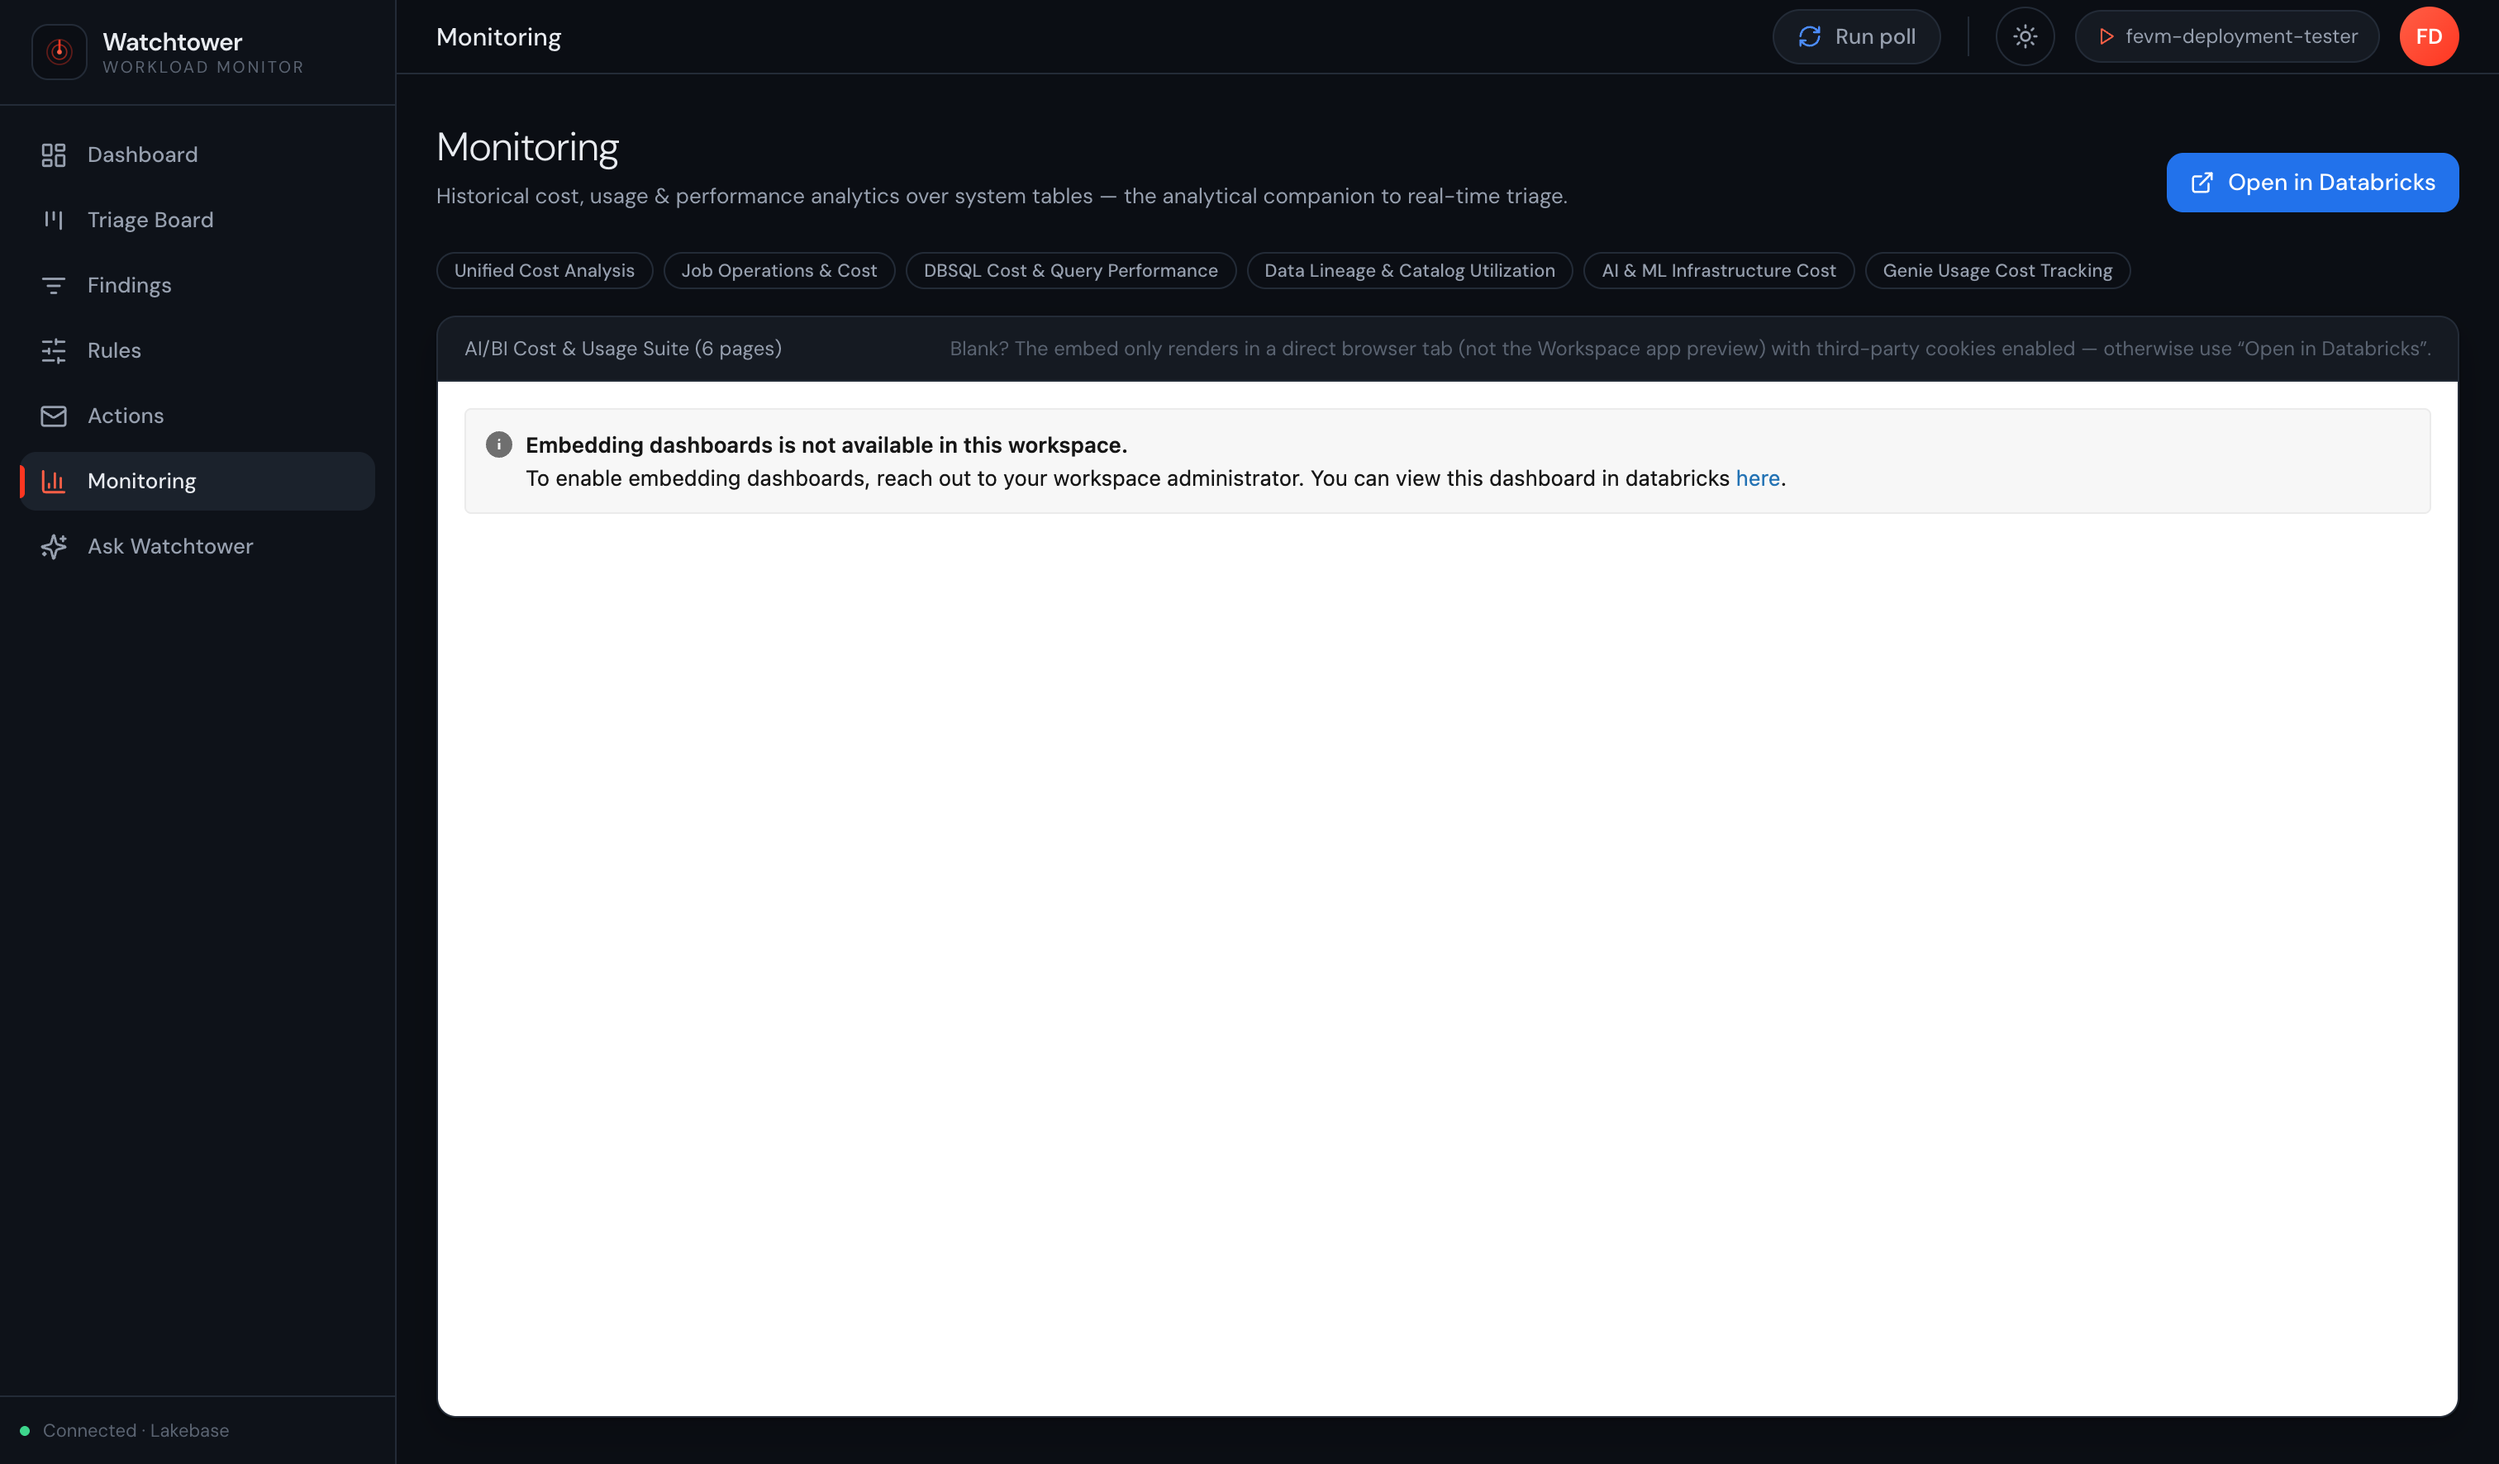
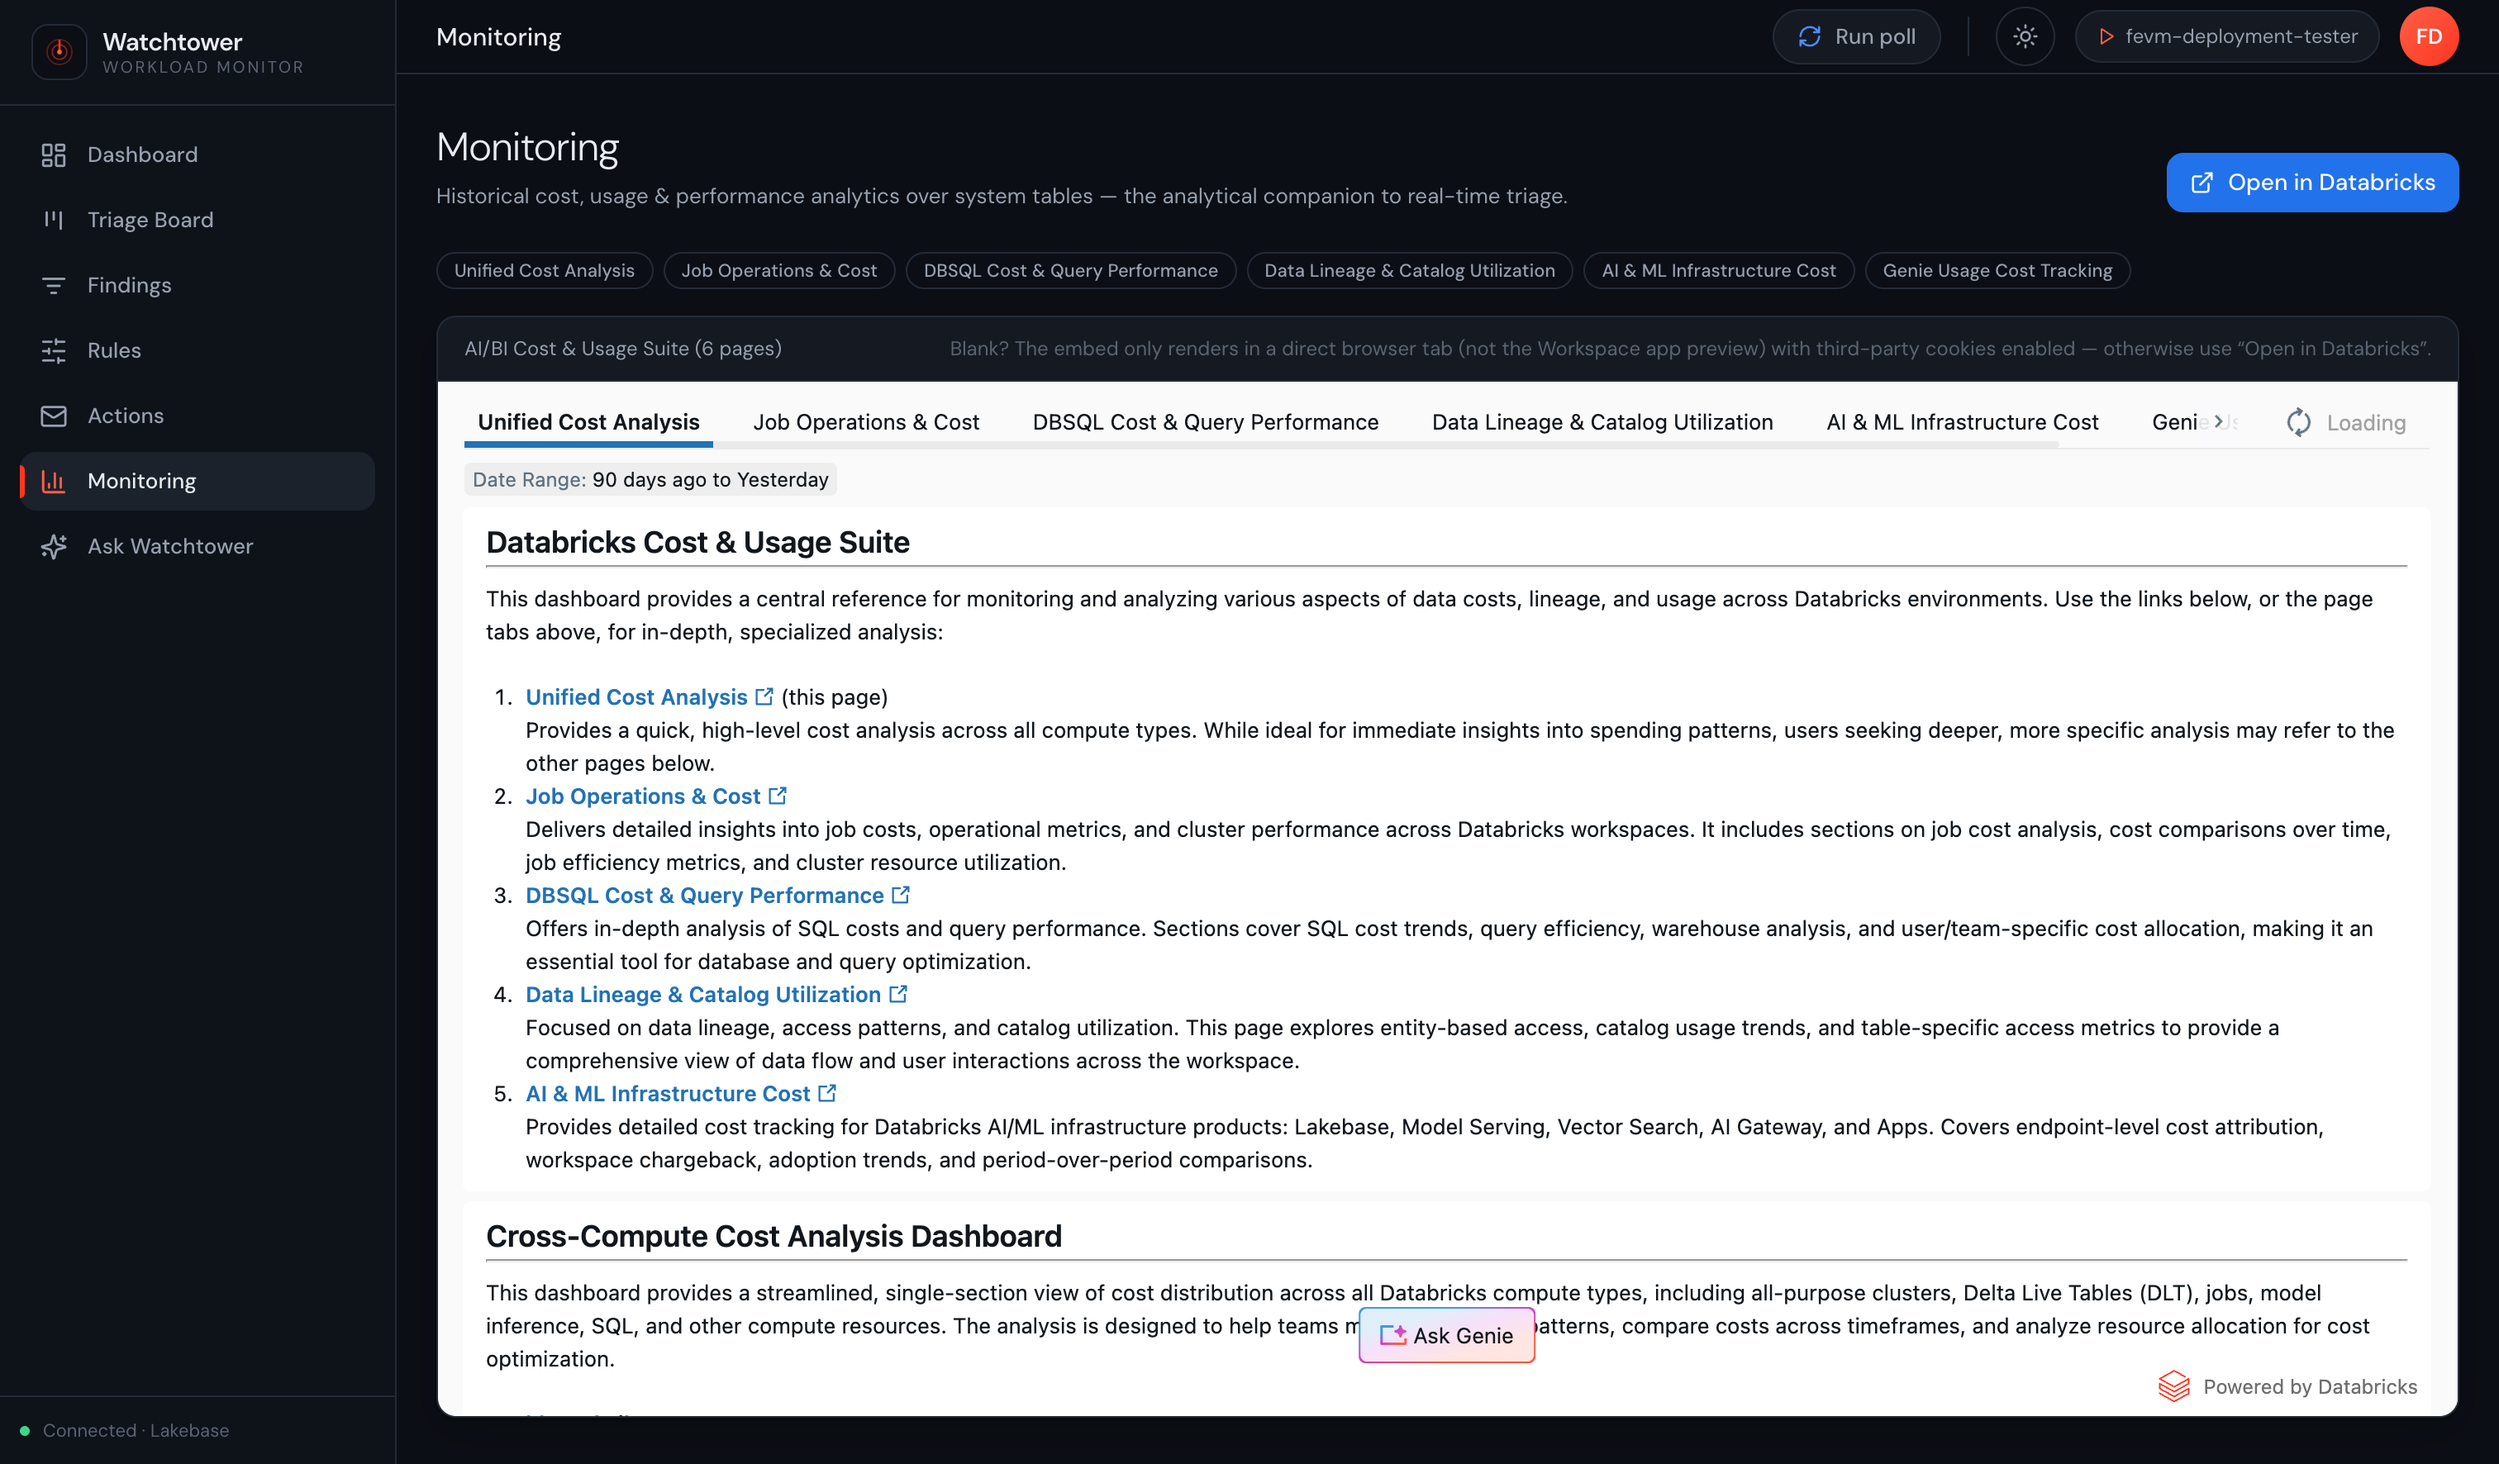
Add Monitoring embed screenshot + document enabling dashboard embedding
The workspace's AI/BI "Embed dashboards" setting was enabled, so the Monitoring
page now renders the embedded 6-page Cost & Usage Suite in-app (verified live).

- Add docs/screenshots/monitoring.png and feature Monitoring in the README gallery.
- README: add an "Enabling the Monitoring embed" setup subsection (Embed
  dashboards + Genie Agents settings, approved domains, third-party cookies).
- RUNBOOK 4b: note the Genie Agents setting for in-embed Ask Genie and that the
  embed was verified rendering after enablement.

diff --git a/workload_watchtower/README.md b/workload_watchtower/README.md
@@ -75,9 +75,11 @@ governance rule — all editable in-app.
 
 ![Findings](docs/screenshots/findings.png)
 
-> A **Monitoring** page also embeds the 6-page AI/BI Cost & Usage dashboard; the embed requires the
-> workspace's AI/BI dashboard-embedding policy to allow the app domain (see
-> [`docs/RUNBOOK.md`](docs/RUNBOOK.md) → *Enable the Monitoring dashboard embed*).
+**Monitoring** — embeds the 6-page AI/BI "Cost & Usage Suite" dashboard over system tables (with an
+in-dashboard **Ask Genie**) as the historical companion to real-time triage. Requires the workspace
+to allow dashboard embedding — see [Enabling the Monitoring embed](#enabling-the-monitoring-embed).
+
+![Monitoring](docs/screenshots/monitoring.png)
 
 ## Architecture
 
@@ -145,6 +147,21 @@ Re-run it any time — completed steps are detected and reused.
 **Then read [`docs/RUNBOOK.md`](docs/RUNBOOK.md)** for the steps a script can't safely do for you:
 the account-admin grant to run the poller as the app SP, enabling AI/BI dashboard embedding, the
 app-deploy UI fallback, and how to verify the end-to-end flow.
+
+### Enabling the Monitoring embed
+
+The **Monitoring** page embeds the AI/BI dashboard via an `/embed/dashboardsv3/<id>` URL, which the
+workspace blocks by default — until embedding is enabled you'll see *"Embedding dashboards is not
+available in this workspace."* in the page (the rest of the app is unaffected). A **workspace
+admin** enables it once, in **Settings**:
+
+1. **Embed dashboards** — Settings → Security → *AI/BI dashboard embedding*: allow all domains, or
+   add the app's domain (`*.databricksapps.com`) to the approved list.
+2. **Genie Agents** — enable if you want the dashboard's in-panel **Ask Genie** to work.
+
+The embed renders in a **direct browser tab** with **third-party cookies enabled**; otherwise use
+the page's **Open in Databricks** button. (`setup.sh` deploys and wires the dashboard either way —
+this only controls whether it renders *inside* the app.)
 
 ## Service principals & the poller identity
 

diff --git a/workload_watchtower/docs/RUNBOOK.md b/workload_watchtower/docs/RUNBOOK.md
@@ -97,12 +97,15 @@ workspace admin alone):
 The Monitoring page embeds the AI/BI dashboard via an `/embed/dashboardsv3/<id>` URL (the
 `/published` console URL refuses framing). For the iframe to render:
 
-1. **Workspace admin → Settings → Security → AI/BI dashboard embedding**: set an approved-domains
-   policy that includes your app's domain (`*.databricksapps.com`), or *Allow all domains* for a
-   quick internal rollout.
-2. The embed renders in a **direct browser tab** with **third-party cookies enabled**. In the
+1. **Workspace admin → Settings → Security → AI/BI dashboard embedding** (labeled *Embed
+   dashboards*): set an approved-domains policy that includes your app's domain
+   (`*.databricksapps.com`), or *Allow all domains* for a quick internal rollout.
+2. **Genie Agents** — enable this setting too if you want the dashboard's in-panel **Ask Genie** to
+   work inside the embed.
+3. The embed renders in a **direct browser tab** with **third-party cookies enabled**. In the
    in-workspace app preview or with 3p cookies blocked, use the page's **Open in Databricks**
-   button instead.
+   button instead. (Verified live: after enabling *Embed dashboards*, reload the app tab — the
+   Monitoring page renders the 6-page suite in-app.)
 
 If the embed still refuses, open the dashboard → **Share → Embed** and copy the exact iframe `src`
 into `DASHBOARD_EMBED_URL` in `config.env`, then re-run the app-deploy step.
